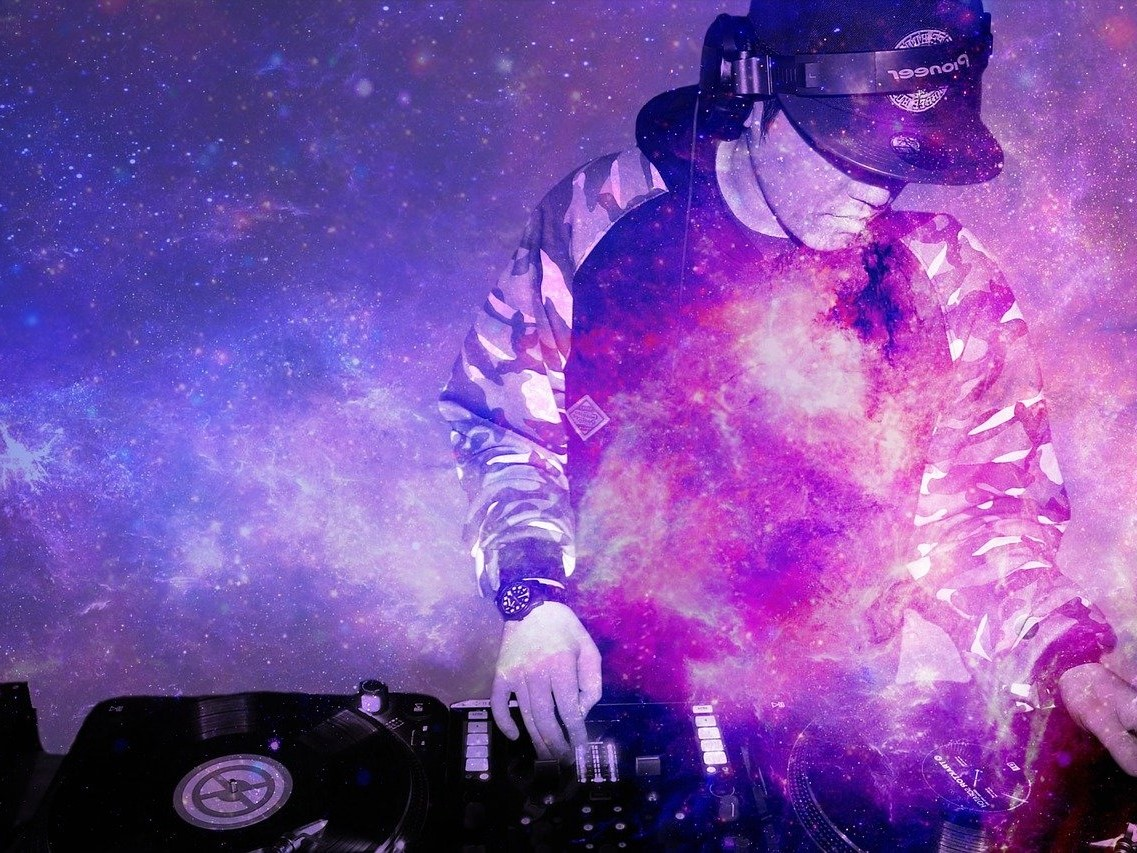
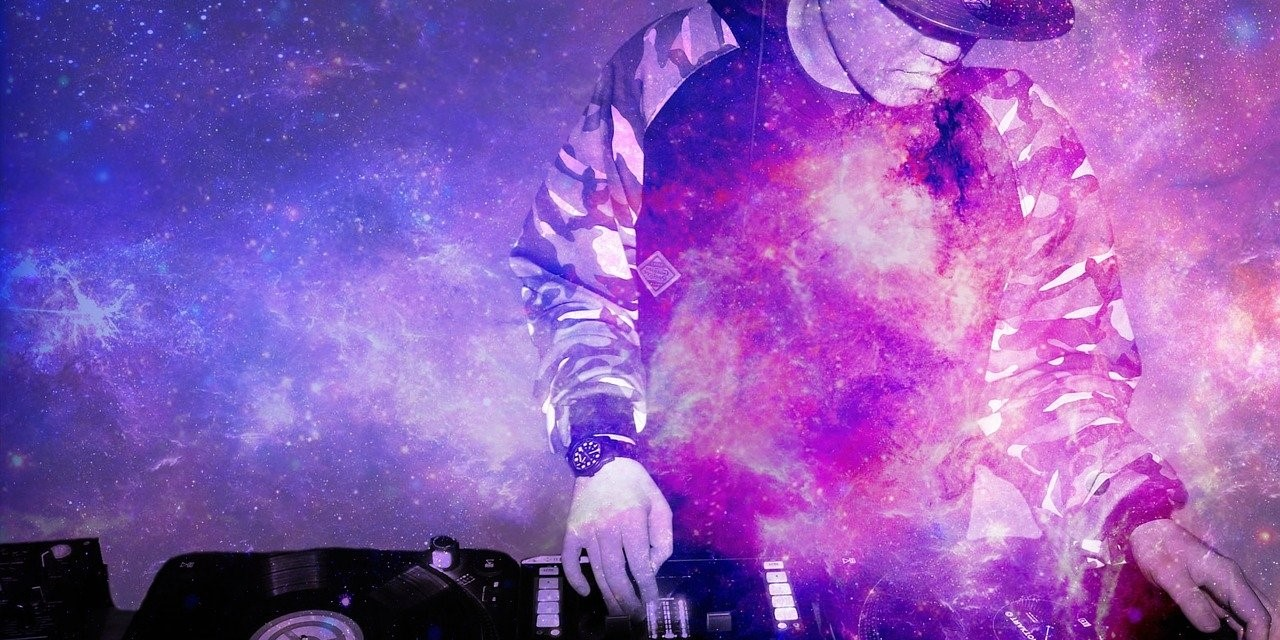
Final layout

diff --git a/index.html b/index.html
@@ -5,6 +5,32 @@
     <meta http-equiv="X-UA-Compatible" content="IE=edge">
     <meta name="viewport" content="width=device-width, initial-scale=1.0">
     <title>Vibrant Events</title>
+    <style>
+        .welcomeText{
+            width: 471px;
+            height: 33px;
+            margin: 8px 89px 0 0;
+            font-family: OpenSans;
+            font-size: 24px;
+            font-weight: normal;
+            font-stretch: normal;
+            font-style: normal;
+            line-height: normal;
+            letter-spacing: normal;
+            color: #555555;
+        }
+        .twitter{
+            margin-left: 954px;
+            margin-top: 33px;
+        }
+        .instagram{
+            margin-left: 12px;
+            margin-top: 33px;
+        }
+        .selectBox{
+            margin-left: 560px;
+        }
+    </style>
     <link rel="stylesheet" href="https://cdnjs.cloudflare.com/ajax/libs/animate.css/4.1.1/animate.min.css"/>
     <link rel="stylesheet" href="https://maxcdn.bootstrapcdn.com/bootstrap/4.0.0/css/bootstrap.min.css" integrity="sha384-Gn5384xqQ1aoWXA+058RXPxPg6fy4IWvTNh0E263XmFcJlSAwiGgFAW/dAiS6JXm" crossorigin="anonymous">
     <script src="https://code.jquery.com/jquery-3.2.1.slim.min.js" integrity="sha384-KJ3o2DKtIkvYIK3UENzmM7KCkRr/rE9/Qpg6aAZGJwFDMVNA/GpGFF93hXpG5KkN" crossorigin="anonymous"></script>
@@ -15,45 +41,40 @@
 </head>
 <body>
     <div class="container-fluid hero"  style="width: 100%;">
+        <div class="row justify-content-end">
+            <div class="col-1" align="right">
+                <img class="twitterIcon" src="./assets/images/twitter.svg">
+            </div>
+            <div class="col-1">
+                <img class="instaIcon" src="./assets/images/instgram.svg">
+            </div>
+        </div>
             <div class="row">
-                <div class="col-8" style="align-items:center; justify-content:center;">
-                    <div class="logoRow"><img class="mx-auto d-block p-5" src="./assets/images/logo.png"></div>
-                    <h3 style="color: #555555;" align="center">Welcome to all our events in vibrant colors!</h1>
+                <div class="col-7" style="align-items:left; justify-content:left; margin-left: -4em;">
+                    <div class="logoRow"><img class="mx-auto d-block" width="60%" src="./assets/images/logo.png"></div>
+                    <h2 style="color: #555555;" align="center">Welcome to all our events in vibrant colors!</h2>
                 </div>
-                <div class="col-4 inputCol pr-5" >
-                    <div class="row justify-content-end">
-                        <div class="col-1" align="right">
-                            <img class="twitterIcon" src="./assets/images/twitter.svg">
-                        </div>
-                        <div class="col-1">
-                            <img class="instaIcon" src="./assets/images/instgram.svg">
-                        </div>
-                    </div>
-                    <div class="row mt-5">
-                        <div class="col-8 mt-5">
-                            <select class="form-select" style="border: none; opacity: 0.5;" class="Default select example">
-                                <option selected style="border: none; opacity: 0.5">Event Type</option>
-                                <option value="1">Holi</option>
-                                <option value="2">Concerts</option>
-                                <option value="3">Conventions</option>
-                            </select>
-                        </div>
-                    </div>
-                    <div class="row mt-4">
-                        <div class="col-8">
-                            <div class="input-group mb-3">
+                <div class="col-5 inputCol" style="margin-top:12em">
+                    <div class="col-8 mt-5">
+                        <select class="form-select" style="border: none; opacity: 0.5; width: 150%;" class="Default select example">
+                            <option selected style="border: none; opacity: 0.5">Event Type</option>
+                            <option value="1">Holi</option>
+                            <option value="2">Concerts</option>
+                            <option value="3">Conventions</option>
+                        </select>
+
+                            <div class="input-group mb-3" style="margin-top:4em; width: 150%;">
                                 <input type="text" style="border: none; opacity: 0.5;" class="form-control" placeholder="Zip Code" aria-label="Zip Codee" aria-describedby="basic-addon2">
                             </div>
-                        </div>
-                    </div>
-                    <div class="row mt-3">
-                        <div class="input-group mb-3" >
+
+
+                        <div class="input-group mb-3"  style="margin-top:4em">
                             <button type="button" class="go">GO</button>
                         </div>
                     </div>
                 </div>
             </div>
-        <div class="row align-items-end" style="margin-left: 0em; width: 100.6%; margin-top: 100px;">
+        <div class="row align-items-end" style="margin-left: 0em; width: 100.6%; margin-top: 125px;">
             <div class="col-3" style="padding: 0;">
                 <div class="card">
                     <img class="card-img-top" src="./assets/images/pic1.jpg" alt="Card image cap">
@@ -76,9 +97,32 @@
             </div>
         </div>
     </div>
-    <div class="container detailsSection">
+    <!-- <div>
+        <div>
+            <img src="assets/images/twitter.svg" class="twitter">
+            <img src="assets/images/instgram.svg" class="instagram">
+        </div>
+        <div style="margin-left: 70px; margin-top: 103px;">
+            <img src="assets/images/Logo.png" class="mainLogo">
+            <div class="selectBox">
+                <div class="col-5 upcoming">
+                    <select class="form-select" style="border: none; opacity: 0.5;" class="Default select example">
+                        <option selected style="border: none; opacity: 0.5">This Week</option>
+                        <option value="1">Holi Celebration in Linden</option>
+                        <option value="2">Concert in the Park</option>
+                    </select>
+                </div>
+            </div>
+        </div>
+        <div class="welcomeText" style="margin-left: 70px;">
+            Welcome to all our events in vibrant color!
+        </div>
+ 
+    </div> -->
+    <div class="container-fluid detailsSection">
         <div class="row">
-            <div class="col-7">
+            <div class="col-1"></div>
+            <div class="col-6">
                 <div class="row events">
                     Full Schedule of Events
                 </div>
@@ -92,7 +136,7 @@
                     <div class="col-4 upcoming">
                         Upcoming Events
                     </div>
-                    <div class="col-2">
+                    <div class="col-1">
 
                     </div>
                     <div class="col-5 upcoming">
@@ -105,7 +149,7 @@
                 </div>
                 <div class="row mt-3">
                     <div class="col-2 ">
-                        <img class="eventPic" src="./assets/images/pic1.jpg">
+                        <img class="eventPic" src="./assets/images/4097531.jpg">
                     </div>
                     <div class="col-10">
                         <div class="eventTitle">Festival of Colors in St. George Avenue Park</div>
@@ -114,7 +158,7 @@
                 </div>
                 <div class="row mt-3">
                     <div class="col-2 ">
-                        <img class="eventPic" src="./assets/images/pic1.jpg">
+                        <img class="eventPic" src="./assets/images/5160717.jpg">
                     </div>
                     <div class="col-10">
                         <div class="eventTitle">Festival of Colors in St. George Avenue Park</div>
@@ -123,7 +167,7 @@
                 </div>
                 <div class="row mt-3">
                     <div class="col-2 ">
-                        <img class="eventPic" src="./assets/images/pic1.jpg">
+                        <img class="eventPic" src="./assets/images/maximalfocus-kje473pORFE-unsplash.jpg">
                     </div>
                     <div class="col-10">
                         <div class="eventTitle">Festival of Colors in St. George Avenue Park</div>
@@ -132,7 +176,7 @@
                 </div>
                 <div class="row mt-3">
                     <div class="col-2 ">
-                        <img class="eventPic" src="./assets/images/pic1.jpg">
+                        <img class="eventPic" src="./assets/images/1316.jpg">
                     </div>
                     <div class="col-10">
                         <div class="eventTitle">Festival of Colors in St. George Avenue Park</div>
@@ -140,12 +184,12 @@
                     </div>
                 </div>
             </div>
-            <div class="col-5">
+            <div class="col-4">
                 <div class="card" style="border: none;">
                     <img class="card-img-top" src="./assets/images/event-highlight.jpg" alt="Card image cap">
                     <div class="highlight">Highlighted Event</div>
                     <h5 class="card-title mt-2">Event Title Goes Here</h5>
-                    <p class="card-text">Some quick example text to build on the card title and make up the bulk of the card's content.</p>
+                    <p class="card-text timeLoc">300 St George Ave Linden, NJ <br/> March 28, 2021 2:00 PM <br/><br/><br/>Curabitur dolor massa, cursus at rhoncus ac, tincidunt vitae lectus. Quisque efficitur tortor risus, non feugiat ipsum bibendum sed. Nulla laoreet laoreet neque, eu pretium erat ultricies vel. Curabitur eget ipsum luctus sem placerat facilisis. Morbi quis diam libero. Morbi sit amet ligula ac nisi consectetur sodales a pretium leo. Sed ullamcorper in orci dignissim hendrerit. Cras vel arcu non nibh ultrices lobortis a a libero. Morbi nunc dolor, vehicula a risus sit amet, lacinia tempor libero. </p>
                   </div>
             </div>
         </div>

diff --git a/assets/css/index.css b/assets/css/index.css
@@ -1,13 +1,14 @@
 .hero {
-    background-image:url("../images/herobackground2.jpg");
+    background-image:url("../images/background3.png");
     -webkit-background-size: cover;
     -moz-background-size: cover;
     -o-background-size: cover;
     background-size: cover;
     background-repeat: no-repeat;
     /* opacity: .75; */
-    /* height: 960px !important;
-    width: 100% !important; */
+    height: 840px !important;
+    width: 1080px !important;
+
 }
 
 .header {
@@ -132,37 +133,42 @@ body {
 .go{
   background-color: #b63073;
   color: #ffffff;
-  width: 150px;
-  height: 72px;
+  width: 100px;
+  height: 48px;
   font-family: OpenSans;
-  font-size: 27px;
+  font-size: 18px;
   font-weight: 600;
+  font-stretch: normal;
+  font-style: normal;
+  line-height: normal;
+  letter-spacing: normal;
+  color: #ffffff;
 }
 .events{
   margin: 100px 99px 18px 43px;
   padding: 16px 200px 15px 24px;
   background-color: #b63073;
-  width: 100%;
+  width: 83%;
   color: white;
-  font-family: GillSans;
+  font-family: OpenSans;
   font-size: 18px;
 }
 .past{
   margin: 100px 99px 18px 43px;
   padding: 16px 200px 15px 24px;
   background-color: #55338e;
-  width: 100%;
+  width: 83%;
   color: white;
-  font-family: GillSans;
+  font-family: OpenSans;
   font-size: 18px;
 }
 .photoGallery{
   margin: 100px 99px 18px 43px;
   padding: 16px 200px 15px 24px;
   background-color: #129eaf;
-  width: 100%;
+  width: 83%;
   color: white;
-  font-family: GillSans;
+  font-family: OpenSans;
   font-size: 18px;
 }
 .upcoming{
@@ -172,8 +178,8 @@ body {
   color: #555555;
 }
 .eventPic{
-  height: 92px;
-  width: 61px;
+  height: 112px;
+  width:63px;
 }
 .eventTitle {
   font-family: OpenSans;
@@ -189,7 +195,7 @@ body {
   font-weight: normal;
   color: #555555;
   font-family: OpenSans;
-  font-size: 20px;
+  font-size: 18px;
   font-weight: 600;
 }
 .highlight{
@@ -210,4 +216,7 @@ body {
   line-height: normal;
   letter-spacing: normal;
   color: #55338e;
+}
+d-block{
+  margin-top: 160px !important;
 }
